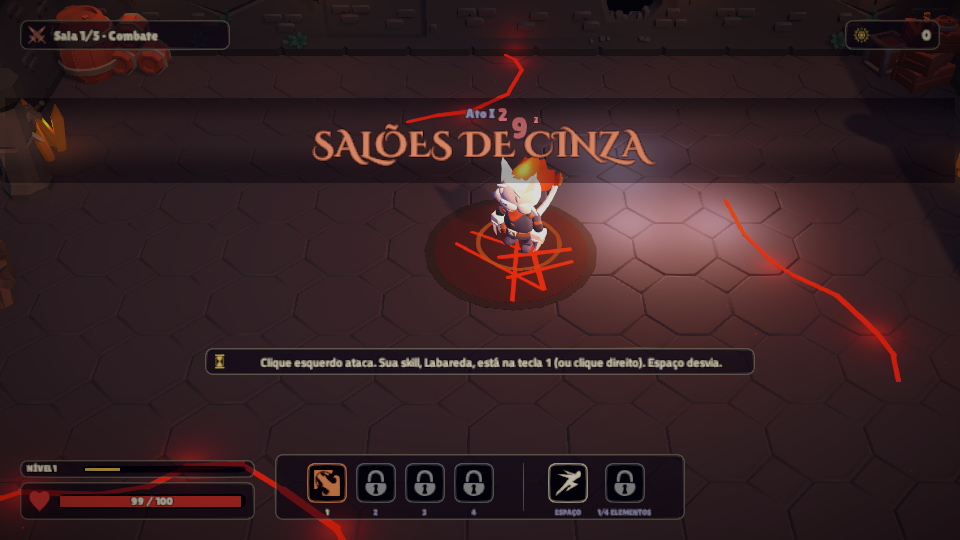
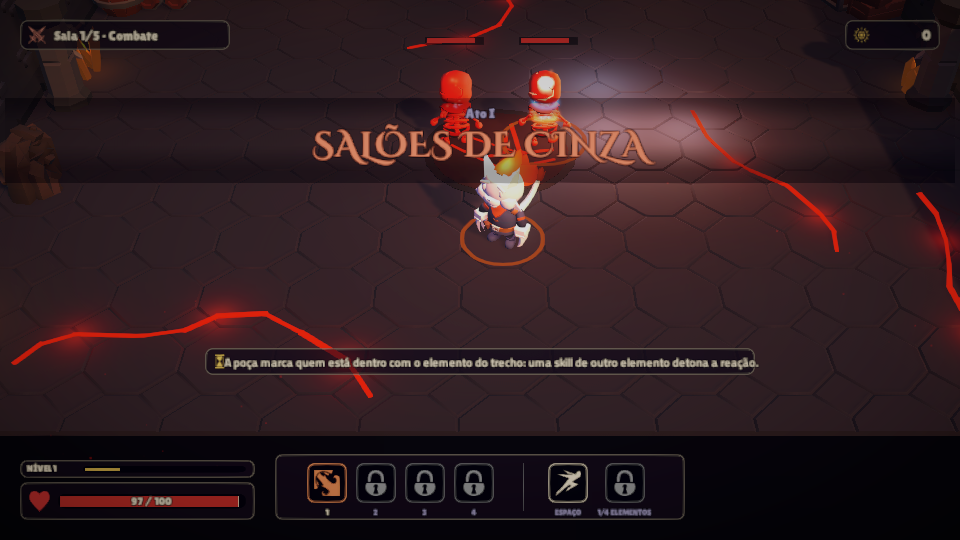
Combate: a poça marca os inimigos dentro com o elemento do trecho (Fogo, Água, Terra) sem trocar a marca do herói; uma skill de outro elemento detona a reação

diff --git a/docs/progresso.html b/docs/progresso.html
@@ -37,7 +37,7 @@
 
   <section id="madrugada9">
     <h2>Madrugada, nona leva: a Provação</h2>
-    <div class="meta"><span class="tag who">Nicolas</span><span class="tag ok">523 testes de regra + 28 testes jogando, todos passando</span></div>
+    <div class="meta"><span class="tag who">Nicolas</span><span class="tag ok">524 testes de regra + 28 testes jogando, todos passando</span></div>
     <img src="img/provacao.png" alt="Entrada de uma Provação: letreiro com o desafio e contador de golpes no canto">
     <div class="cols">
       <div>
@@ -54,6 +54,12 @@
           <li>Cumprida: <b>talento extra</b> (abre a escolha com a sala limpa) e 15 de Essência a mais. Perdida: a sala paga o normal, sem castigo</li>
           <li>Aparece da terceira camada em diante, no máximo uma por camada; o sorteio gasta o mesmo número do gerador que a sala comum, então o resto do mapa de cada semente não muda</li>
           <li>Dá uma escolha de risco no mapa: a porta da Provação paga mais para quem joga limpo</li>
+        </ul>
+        <h3 style="margin-top:14px">O chão entra nas reações</h3>
+        <ul>
+          <li>A poça de corrupção agora <b>marca os inimigos dentro dela</b> com o elemento do trecho: Fogo nos Salões, Água na Cripta, Terra no Jardim</li>
+          <li>Uma skill de outro elemento detona a reação. Com um elemento só, já dá para reagir atraindo o bando para a poça</li>
+          <li>A marca da poça não troca a que o herói pôs; o herói não é marcado. Uma dica explica na primeira vez</li>
         </ul>
       </div>
     </div>

diff --git a/Assets/Game/Game/CorruptionPool.cs b/Assets/Game/Game/CorruptionPool.cs
@@ -1,4 +1,5 @@
 using System.Collections.Generic;
+using Quintessence.Combat;
 using Quintessence.Core;
 using Quintessence.Run;
 using UnityEngine;
@@ -7,6 +8,7 @@ namespace Quintessence.Game
 {
     /// Poca de corrupcao no chao: fere quem estiver dentro, heroi ou inimigo, a cada meio segundo.
     /// Toma a cor do trecho; queima nos Saloes e no Jardim, encharca (deixa lento) na Cripta.
+    /// E marca os inimigos dentro com o elemento do trecho (Fogo, Agua, Terra): uma skill de outro elemento detona a reacao.
     public class CorruptionPool : MonoBehaviour
     {
         [SerializeField] Vector3 size = new(6f, 1.2f, 1.8f);
@@ -23,6 +25,19 @@ namespace Quintessence.Game
         readonly HashSet<Health> seen = new();
         public int Pulses { get; private set; }
         public StatusType Status => status;
+        ElementType element = ElementType.Fire;
+        /// Elemento com que a poca marca os inimigos dentro dela.
+        public ElementType Element => element;
+        public int Marks { get; private set; }
+        /// Uma poca marcou um inimigo (o diretor da a dica na primeira vez).
+        public static event System.Action Marked;
+
+        public static ElementType ElementFor(Biome biome) => biome switch
+        {
+            Biome.Crypt => ElementType.Water,
+            Biome.Garden => ElementType.Earth,
+            _ => ElementType.Fire,
+        };
 
         public void Bind(Vector3 area, Renderer[] ground, Renderer[] glowVeins) { size = area; surfaces = ground; veins = glowVeins; }
 
@@ -31,6 +46,7 @@ namespace Quintessence.Game
             var dresser = FindFirstObjectByType<BiomeDresser>();
             var c = dresser != null ? dresser.CrackColor : new Color(1f, 0.16f, 0.02f);
             if (dresser != null && dresser.Current == Biome.Crypt) status = StatusType.Soaked;
+            element = ElementFor(dresser != null ? dresser.Current : Biome.Ashes);
             // chao chamuscado com um fundo da cor do trecho; os veios brilham como as rachaduras da sala
             var block = new MaterialPropertyBlock();
             void Tint(Renderer[] list, Color baseColor, Color glow)
@@ -66,7 +82,20 @@ namespace Quintessence.Game
                 h.TakeDamage(new DamageInfo(hero ? heroDamage : damage, ElementType.None, from, gameObject) { Point = h.transform.position + Vector3.up * 0.4f, IsReaction = true });
                 // no heroi so a Cripta deixa efeito (encharca); a queimadura e para os inimigos
                 if (!h.IsDead && (!hero || status == StatusType.Soaked)) StatusHolder.GetOrAdd(h).Apply(status, 1.2f, from, gameObject);
+                if (!hero && !h.IsDead) Mark(h);
             }
+        }
+
+        /// Marca com o elemento da poca, sem tirar a marca que o heroi pos (outra marca fica onde esta).
+        void Mark(Health h)
+        {
+            var mark = h.GetComponent<ElementMark>();
+            if (mark == null) mark = h.gameObject.AddComponent<ElementMark>();
+            if (mark.State.HasMark && mark.State.Element != element) return;
+            mark.State.Hit(element, out _);
+            GameEvents.RaiseMarkApplied(element, h);
+            Marks++;
+            Marked?.Invoke();
         }
 
         /// O ponto esta dentro da area que fere (para a sonda de balanceamento desviar).

diff --git a/Assets/Game/Game/Tests/PlayMode/RunPlayTests.cs b/Assets/Game/Game/Tests/PlayMode/RunPlayTests.cs
@@ -1291,6 +1291,31 @@ namespace Quintessence.Game.PlayTests
             for (int k = 0; k < 60 && pool.Pulses < 2; k++) yield return null;
             Assert.Less(heroHp.Current, heroBefore, "quem pisa na poca se fere");
             Assert.AreEqual(StatusType.Burn, pool.Status, "nos Saloes de Cinza ela queima");
+            // e marca os inimigos dentro com o elemento do trecho: uma skill de outro elemento detona
+            Assert.AreEqual(ElementType.Fire, pool.Element, "nos Saloes a poca marca com Fogo");
+            Assert.IsFalse(hero.TryGetComponent(out ElementMark heroMark) && heroMark.State.HasMark, "o heroi nao e marcado pela poca");
+            var meleePrefab = UnityEditor.AssetDatabase.LoadAssetAtPath<GameObject>("Assets/Game/Enemies/Prefabs/Rastejante.prefab");
+            var soaked = Object.Instantiate(meleePrefab, new Vector3(1.2f, 0, 0.2f), Quaternion.identity).GetComponent<Health>();
+            var keeps = Object.Instantiate(meleePrefab, new Vector3(-1.2f, 0, 0.2f), Quaternion.identity).GetComponent<Health>();
+            soaked.GetComponent<EnemyBrain>().enabled = false;
+            keeps.GetComponent<EnemyBrain>().enabled = false;
+            keeps.gameObject.AddComponent<ElementMark>().State.Hit(ElementType.Earth, out _);
+            hero.Teleport(new Vector3(0, 0.05f, -4f), Vector3.forward);
+            int pulses = pool.Pulses;
+            for (int k = 0; k < 90 && pool.Pulses < pulses + 2; k++) yield return null;
+            Assert.AreEqual(ElementType.Fire, soaked.GetComponent<ElementMark>().State.Element, "inimigo na poca fica marcado com Fogo");
+            Assert.AreEqual(ElementType.Earth, keeps.GetComponent<ElementMark>().State.Element, "a marca que o heroi pos nao e trocada");
+            Assert.Greater(pool.Marks, 0);
+            Assert.AreEqual(Tips.Text("terrain"), hud.LastTip, "a primeira marca da poca traz a dica");
+            string reaction = null;
+            void OnReaction(ReactionEvent e) { if (e.Target == soaked.gameObject) reaction = e.Name; }
+            GameEvents.ReactionTriggered += OnReaction;
+            var table = UnityEditor.AssetDatabase.LoadAssetAtPath<ReactionTable>("Assets/Game/Combat/Data/Reactions.asset");
+            ElementCombat.Deliver(soaked, new DamageInfo(4f, ElementType.Water, Team.Player, hero.gameObject), table);
+            GameEvents.ReactionTriggered -= OnReaction;
+            Assert.IsNotNull(reaction, "Agua num inimigo marcado pela poca de Fogo vira reacao");
+            Object.Destroy(soaked.gameObject);
+            Object.Destroy(keeps.gameObject);
             Shot(cam, "docs/img/perigo_poca.png");
             Object.Destroy(pool.gameObject);
             heroHp.Heal(999);

diff --git a/Assets/Game/Game/Tips.cs b/Assets/Game/Game/Tips.cs
@@ -37,6 +37,7 @@ namespace Quintessence.Game
             "elite" => "Elite: inimigos com um traço especial e um inimigo forte no fim. Paga mais.",
             "shop" => "Loja: gaste Essência em cura, vida máxima, bênçãos e talentos.",
             "pact" => "Pacto: um ganho forte com um custo que dura a run toda. Dá para recusar.",
+            "terrain" => "A poça marca quem está dentro com o elemento do trecho: uma skill de outro elemento detona a reação.",
             "trial" => "Provação: cumpra o desafio do letreiro e ganhe um talento extra. Falhar só perde o prêmio.",
             "fusion" => "Três elementos: lance a skill do terceiro numa poça de Magma ou numa nuvem de Vapor. É uma Fusão.",
             "affinity" => "Elementais resistem ao próprio elemento e são fracos a outro: Água vence Fogo, Ar vence Pedra.",

diff --git a/Assets/Game/Game/Tests/Editor/PoolTests.cs b/Assets/Game/Game/Tests/Editor/PoolTests.cs
@@ -1,0 +1,18 @@
+using NUnit.Framework;
+using Quintessence.Core;
+using Quintessence.Run;
+
+namespace Quintessence.Game.Tests
+{
+    public class PoolTests
+    {
+        [Test] public void Pool_MarksWithTheElementOfItsStretch()
+        {
+            Assert.AreEqual(ElementType.Fire, CorruptionPool.ElementFor(Biome.Ashes), "Salões de Cinza: Fogo");
+            Assert.AreEqual(ElementType.Water, CorruptionPool.ElementFor(Biome.Crypt), "Cripta Afogada: Água");
+            Assert.AreEqual(ElementType.Earth, CorruptionPool.ElementFor(Biome.Garden), "Jardim de Pedra: Terra");
+            Assert.AreEqual(ElementType.Fire, CorruptionPool.ElementFor(Biome.Heart));
+            Assert.IsNotEmpty(Tips.Text("terrain"));
+        }
+    }
+}

diff --git a/Assets/Game/Game/RunDirector.cs b/Assets/Game/Game/RunDirector.cs
@@ -240,7 +240,10 @@ namespace Quintessence.Game
             GameEvents.ElementAwakened += OnAwakened;
             GameEvents.EnemySpawned += OnEnemySpawned;
             GameEvents.DamageDealt += OnDamageDealt;
+            CorruptionPool.Marked += OnPoolMarked;
         }
+
+        void OnPoolMarked() => Tip("terrain");
 
         // ---------- Provacao ----------
 
@@ -368,6 +371,7 @@ namespace Quintessence.Game
             GameEvents.ElementAwakened -= OnAwakened;
             GameEvents.EnemySpawned -= OnEnemySpawned;
             GameEvents.DamageDealt -= OnDamageDealt;
+            CorruptionPool.Marked -= OnPoolMarked;
         }
 
         void Start()

diff --git a/docs/GDD.md b/docs/GDD.md
@@ -117,7 +117,7 @@ Uma skill deixa no inimigo a **marca** do elemento dela. Acertar esse inimigo co
 - **Provação:** sala de luta comum com um desafio sorteado no letreiro: **Contra o relógio** (limpar em 60 s com duas ondas, 84 s com três) ou **Ileso** (tomar no máximo três golpes; golpes no mesmo instante contam um). Cumprida, dá um talento extra e 15 de Essência; perdida, a sala segue normal e só o prêmio some. Aparece da terceira camada em diante, no máximo uma por camada.
 - **Tesouro:** um baú com Essência e um gole de vida. **Pacto:** três pactos sorteados entre cinco, cada um com um ganho forte e um custo permanente: Sangue (+25% de dano, −20% de vida máxima), Vidro (skills 25% mais rápidas, recebe +25% de dano), Ganância (toda a Essência por um talento), Eco (reações +30%, −15% de vida máxima) e Pressa (mais velocidade e dash, recebe +15% de dano). Dá para recusar.
 - **Chefe:** cada run sorteia um de dois. A **Tecelã das Cinzas**, a antiga mestra do santuário, luta de longe: leques de brasa, erupções, anéis e teletransporte, mantendo distância. O **Guardião das Cinzas**, em três fases, com cinco ataques avisados: Pancada, Leque de brasas, Erupção, Investida (da segunda fase) e Anel de Cinzas com faixa segura (da terceira). Na última fase, os dois levantam um escudo que só a Quintessência quebra.
-- A sala da run tem 28 x 20 m e a câmera acompanha o herói. Vinte e dois arranjos de sala, alguns com estrutura feita de barreiras baixas (corredores, fortim, sala em L, galeria), e quatro perigos que ferem herói e inimigo: respiradouro de brasa, armadilha de espinhos, poça de corrupção (queima; na Cripta, encharca) e barril de pólvora (qualquer golpe acende; fere bem mais os inimigos e acende os barris vizinhos).
+- A sala da run tem 28 x 20 m e a câmera acompanha o herói. Vinte e dois arranjos de sala, alguns com estrutura feita de barreiras baixas (corredores, fortim, sala em L, galeria), e quatro perigos que ferem herói e inimigo: respiradouro de brasa, armadilha de espinhos, poça de corrupção (queima; na Cripta, encharca; e marca os inimigos dentro com o elemento do trecho, Fogo nos Salões, Água na Cripta e Terra no Jardim, sem trocar a marca que o herói pôs: uma skill de outro elemento detona a reação, então até um herói de um elemento só reage atraindo o bando para a poça) e barril de pólvora (qualquer golpe acende; fere bem mais os inimigos e acende os barris vizinhos).
 
 ### Inimigos
 
